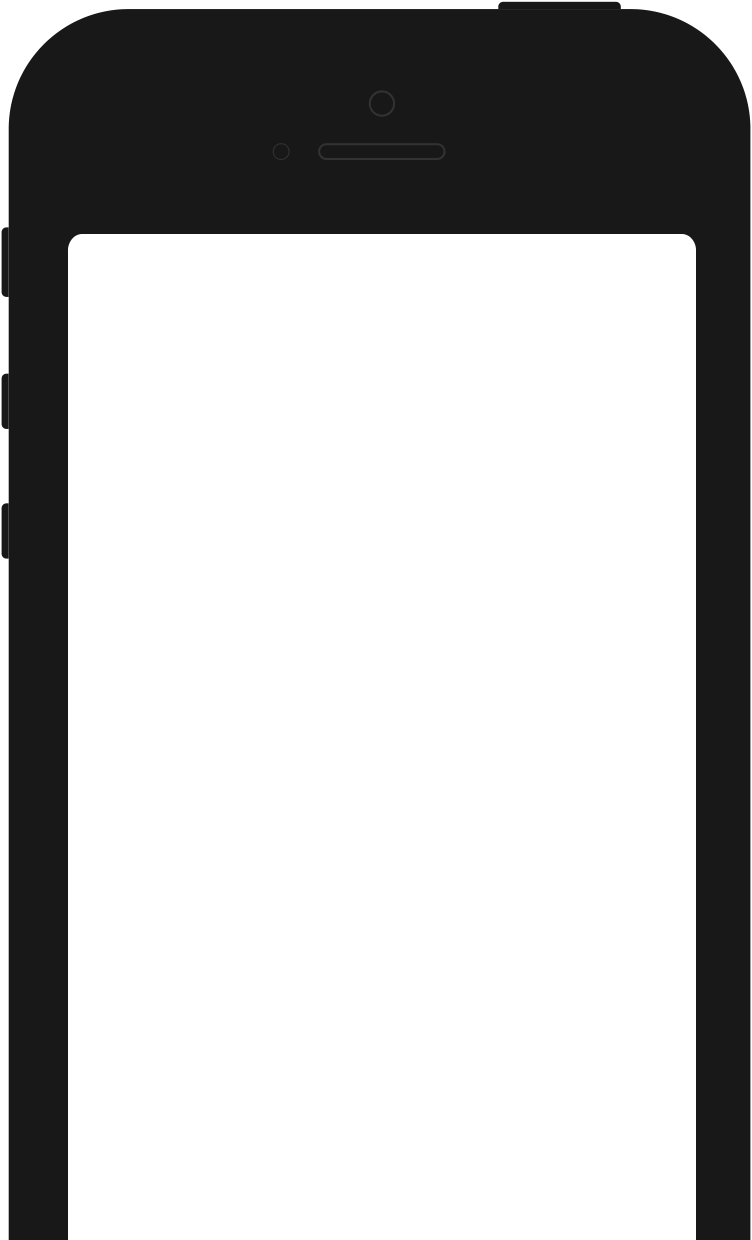
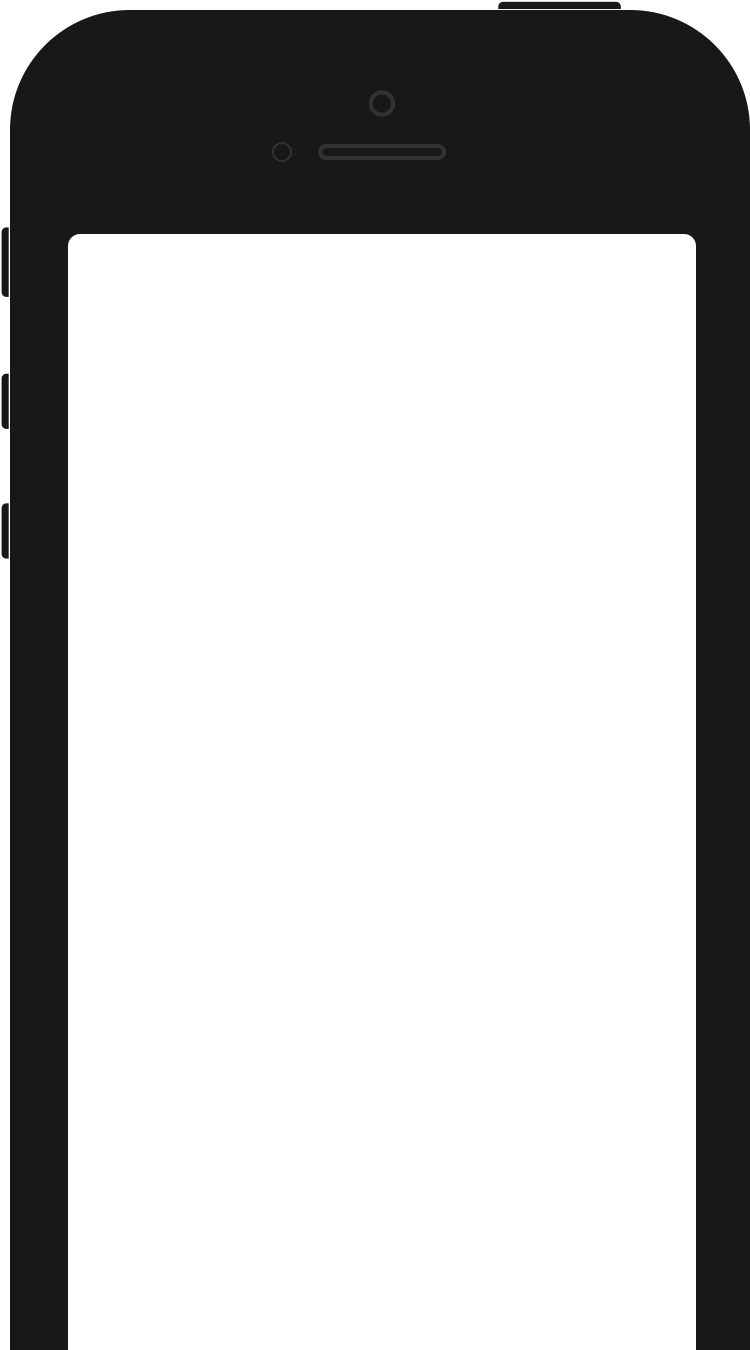
Add screenshots.

diff --git a/source/assets/stylesheets/index.css.scss b/source/assets/stylesheets/index.css.scss
@@ -24,6 +24,7 @@
     min-height: 770px;
     display: flex;
     flex-flow: row nowrap;
+    justify-content: space-between;
 
     .index-hero-intro {
       display: flex;
@@ -60,8 +61,51 @@
 
     }
     .index-hero-screenshot {
-      min-height: 620px;
-      @include background-image('iPhone', 376px, 620px);
+      min-height: 675px;
+      @include background-image('iPhone', 375px, 675px);
+
+      .screenshots-container {
+        overflow: hidden;
+        position: relative;
+        height: 100%;
+        margin: 0 27px 0 34px;
+      }
+
+      .screenshots {
+        animation: hscroll 20s infinite;
+        width: 2240px;
+        display: flex;
+        flex-flow: row nowrap;
+        justify-content: flex-end;
+        align-items: flex-end;
+        height: 100%;
+
+        & > div {
+          background-position: bottom;
+        }
+      }
+
+      .screenshot-1 {
+        @include background-image('screenshots/1', 320px, 568px);
+      }
+      .screenshot-2 {
+        @include background-image('screenshots/2', 320px, 568px);
+      }
+      .screenshot-3 {
+        @include background-image('screenshots/3', 320px, 568px);
+      }
+      .screenshot-4 {
+        @include background-image('screenshots/4', 320px, 568px);
+      }
+      .screenshot-5 {
+        @include background-image('screenshots/5', 320px, 568px);
+      }
+      .screenshot-6 {
+        @include background-image('screenshots/6', 320px, 568px);
+      }
+      .screenshot-7 {
+        @include background-image('screenshots/7', 320px, 568px);
+      }
     }
   }
 

diff --git a/source/assets/stylesheets/index.iphone.css.scss b/source/assets/stylesheets/index.iphone.css.scss
@@ -8,7 +8,7 @@
       min-height: 1540px;
 
       .index-hero-intro {
-        flex: 6;
+        flex: 1;
         align-items: center;
 
         .index-hero-intro-logo {
@@ -24,7 +24,6 @@
         }
       }
       .index-hero-screenshot {
-        flex: 4;
         align-self: center;
 
         background-position: bottom;

diff --git a/source/assets/stylesheets/_carousel.css.scss b/source/assets/stylesheets/_carousel.css.scss
@@ -1,0 +1,10 @@
+@mixin hscroll($width) {
+  @keyframes hscroll {
+    0%, 18.75%  { margin-left: 0 }
+    25%, 43.75% { margin-left: - $width; }
+    50%, 68.75% { margin-left: - $width*2; }
+    75%, 93.75% { margin-left: - $width*3; }
+    100%  { margin-left: 0 }
+  }
+}
+@include hscroll(320px);

diff --git a/source/assets/stylesheets/index.desktop.css.scss b/source/assets/stylesheets/index.desktop.css.scss
@@ -10,16 +10,12 @@
 
       .index-hero-intro {
         flex: 1;
-
         .index-hero-intro-links {
           flex-flow: row nowrap;
         }
       }
       .index-hero-screenshot {
-        flex: 1;
         align-self: flex-end;
-
-        background-position: right;
       }
     }
 
